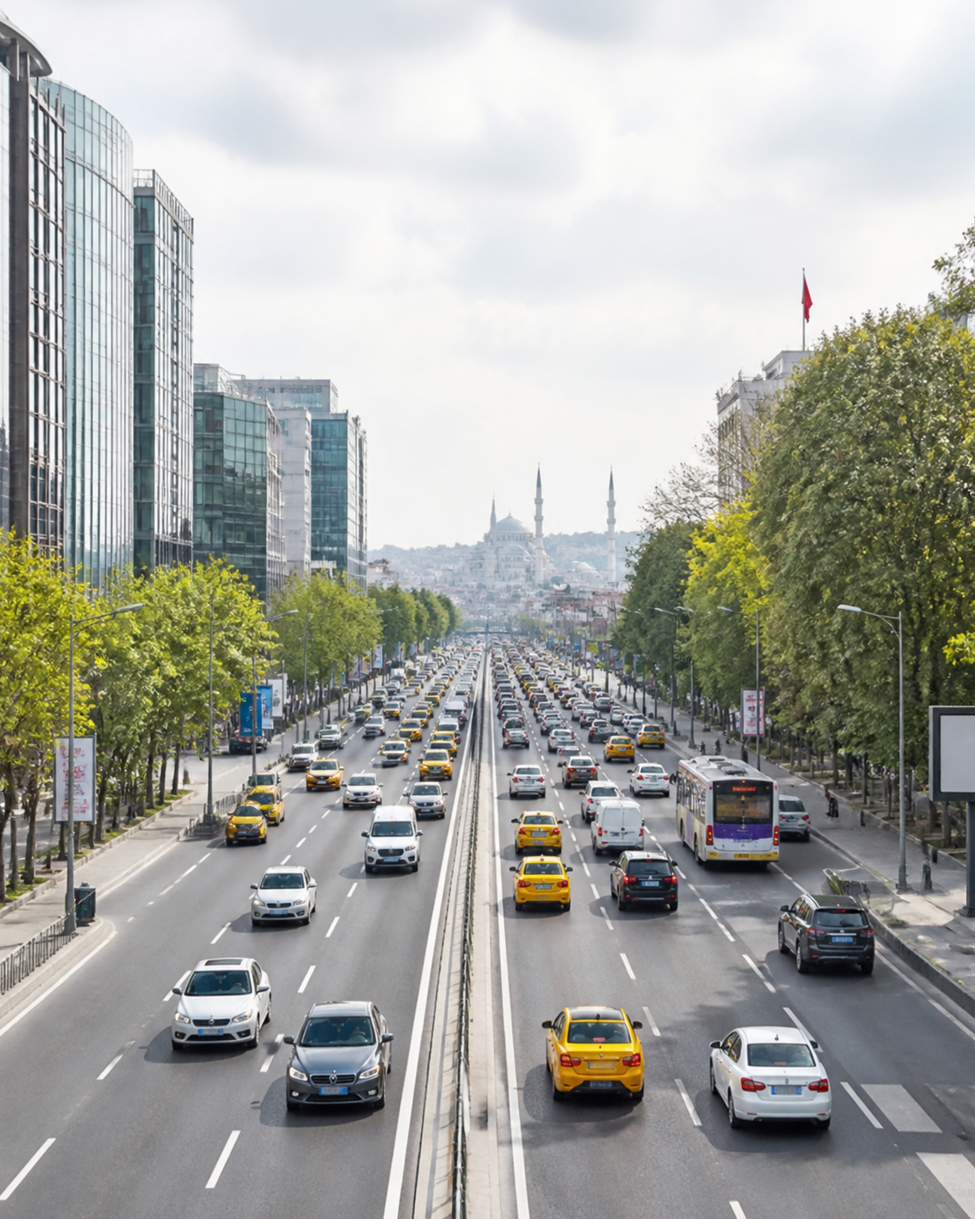
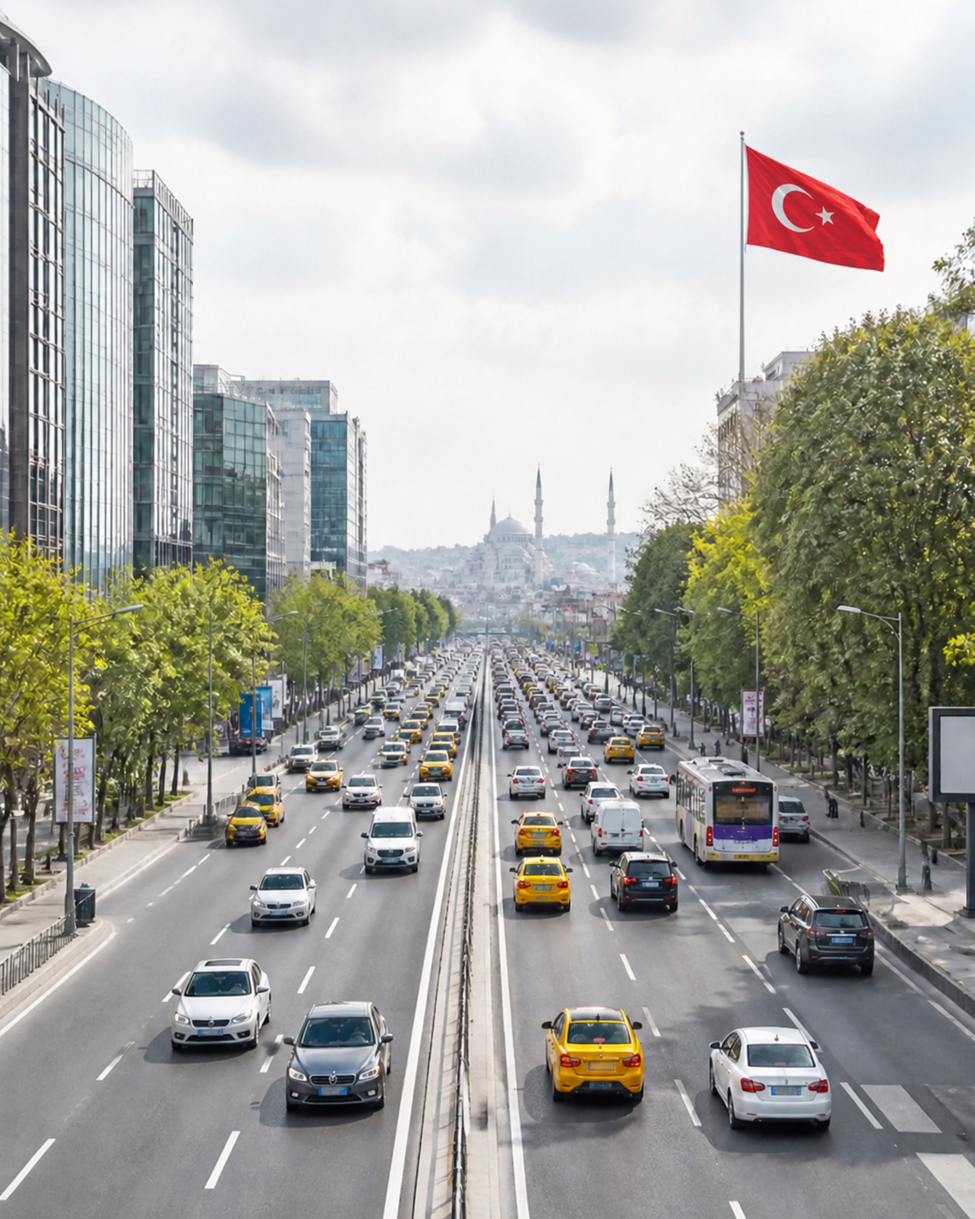
Turkey sales cover: drop the pasted flag card, enlarge the real flag in the photo
Claude-Session: https://claude.ai/code/session_01JWxxZZBXcuDznNNTjM86b7

diff --git a/marketing/news/stories/turkey_sales_oct.py b/marketing/news/stories/turkey_sales_oct.py
@@ -5,7 +5,7 @@ NAME = "turkey-sales-oct"
 THEME = "light"
 SOURCE = "المصدر: جمعية موزعي السيارات في تركيا ODMD"
 SLIDES = [
-    dict(kind='cover', bg='tr-sales-1-cover.jpg', mark='flag-turkey.png', mark_w=200, stack=[
+    dict(kind='cover', bg='tr-sales-1-cover.jpg', stack=[
         ('مبيعات السيارات في تركيا', LOGONAVY, Wh, 60),
         ('تتراجع 30.8%', Wh, LOGONAVY, 84),
         ('في أكتوبر 2026', O, LOGONAVY, 70)]),
